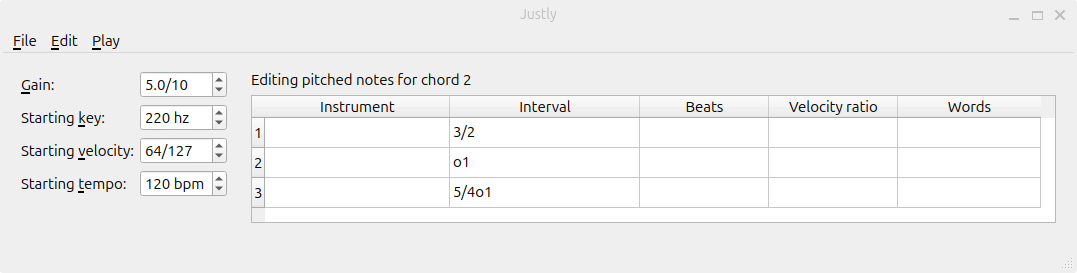
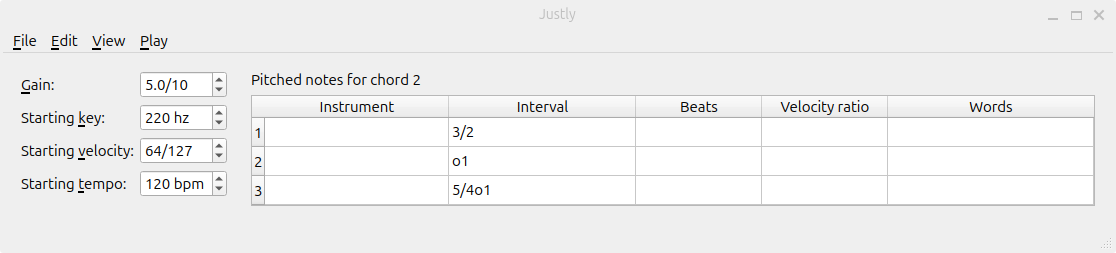
docs

diff --git a/src/justly.cpp b/src/justly.cpp
@@ -29,7 +29,6 @@
 #include <QtGui/QPixmap>
 #include <QtGui/QScreen>
 #include <QtGui/QUndoStack>
-#include <QtWidgets/QAbstractItemDelegate>
 #include <QtWidgets/QAbstractItemView>
 #include <QtWidgets/QApplication>
 #include <QtWidgets/QBoxLayout>
@@ -49,7 +48,6 @@
 #include <QtWidgets/QSizePolicy>
 #include <QtWidgets/QSpinBox>
 #include <QtWidgets/QStatusBar>
-#include <QtWidgets/QStyleOption>
 #include <QtWidgets/QTableView>
 #include <QtWidgets/QWidget>
 #include <algorithm>
@@ -155,14 +153,13 @@ template <typename Item>
 
 template <typename SubType>
 [[nodiscard]] static auto variant_to(const QVariant &variant) {
-  Q_ASSERT(variant.isValid());
-  Q_ASSERT(!variant.isNull());
   Q_ASSERT(variant.canConvert<SubType>());
   return variant.value<SubType>();
 }
 
 [[nodiscard]] static auto get_json_value(const nlohmann::json &json_data,
                                          const char *const field_name) {
+  Q_ASSERT(field_name != nullptr);
   Q_ASSERT(json_data.is_object());
   Q_ASSERT(json_data.contains(field_name));
   return json_data[field_name];
@@ -194,6 +191,7 @@ static void add_int_to_json(nlohmann::json &json_object,
 static void add_string_to_json(nlohmann::json &json_row,
                                const char *const field_name,
                                const QString &words) {
+  Q_ASSERT(words.isValidUtf16());
   Q_ASSERT(json_row.is_object());
   if (!words.isEmpty()) {
     json_row[field_name] = words.toStdString().c_str();
@@ -253,6 +251,7 @@ static void check_fluid_ok(const int fluid_result) {
 
 static void set_fluid_int(fluid_settings_t &settings, const char *const field,
                           const int value) {
+  Q_ASSERT(field != nullptr);
   check_fluid_ok(fluid_settings_setint(&settings, field, value));
 }
 
@@ -330,7 +329,8 @@ static void add_control(QFormLayout &controls_form, const QString &label,
                         QDoubleSpinBox &spin_box, const int minimum,
                         const int maximum, const QString &suffix,
                         const double single_step = 1, const int decimals = 0) {
-  Q_ASSERT(suffix != nullptr);
+  Q_ASSERT(suffix.isValidUtf16());
+  Q_ASSERT(label.isValidUtf16());
   spin_box.setMinimum(minimum);
   spin_box.setMaximum(maximum);
   spin_box.setSuffix(suffix);
@@ -339,8 +339,6 @@ static void add_control(QFormLayout &controls_form, const QString &label,
   controls_form.addRow(label, &spin_box);
 }
 
-// a subnamed should have the following methods:
-// static auto SubNamed::get_all_nameds() -> const QList<SubNamed>&;
 struct Named {
   QString name;
 
@@ -351,7 +349,7 @@ struct Named {
   if (named_pointer == nullptr) {
     return QString("");
   }
-  return named_pointer->name;
+  return get_reference(named_pointer).name;
 }
 
 template <typename SubNamed> // type properties
@@ -363,6 +361,7 @@ concept NamedInterface = std::derived_from<SubNamed, Named> &&
 
 template <NamedInterface SubNamed>
 [[nodiscard]] static auto get_by_name(const QString &name) -> const SubNamed & {
+  Q_ASSERT(name.isValidUtf16());
   const auto &all_nameds = SubNamed::get_all_nameds();
   const auto named_pointer =
       std::find_if(all_nameds.cbegin(), all_nameds.cend(),
@@ -374,9 +373,10 @@ template <NamedInterface SubNamed>
 static void add_named_to_json(nlohmann::json &json_row,
                               const char *const field_name,
                               const Named *named_pointer) {
+  Q_ASSERT(field_name != nullptr);
   Q_ASSERT(json_row.is_object());
   if (named_pointer != nullptr) {
-    json_row[field_name] = named_pointer->name.toStdString();
+    json_row[field_name] = get_reference(named_pointer).name.toStdString();
   }
 }
 
@@ -1085,6 +1085,9 @@ substitute_named_for(QWidget &parent, const SubNamed *sub_named_pointer,
                      const int note_number, const QString &missing_title,
                      const QString &missing_message,
                      const QString &default_message) -> const SubNamed & {
+  Q_ASSERT(missing_title.isValidUtf16());
+  Q_ASSERT(missing_message.isValidUtf16());
+  Q_ASSERT(default_message.isValidUtf16());
   if (sub_named_pointer == nullptr) {
     sub_named_pointer = current_sub_named_pointer;
   };
@@ -2188,6 +2191,7 @@ template <RowInterface SubRow> struct SetCells : public QUndoCommand {
 };
 
 [[nodiscard]] static auto get_mime_description(const QString &mime_type) {
+  Q_ASSERT(mime_type.isValidUtf16());
   if (mime_type == Chord::get_cells_mime()) {
     return RowsModel<Chord>::tr("chords cells");
   }
@@ -2913,6 +2917,7 @@ static void play_chords(SongWidget &song_widget, const int first_chord_number,
 }
 
 void export_to_file(SongWidget &song_widget, const QString &output_file) {
+  Q_ASSERT(output_file.isValidUtf16());
   auto &player = song_widget.player;
   const auto &song = song_widget.song;
 
@@ -3054,6 +3059,8 @@ static void add_delete_cells(SongWidget &song_widget) {
     SongWidget &song_widget, const char *const caption, const QString &filter,
     const QFileDialog::AcceptMode accept_mode, const QString &suffix,
     const QFileDialog::FileMode file_mode) -> QFileDialog & {
+  Q_ASSERT(filter.isValidUtf16());
+  Q_ASSERT(suffix.isValidUtf16());
   auto &dialog = // NOLINT(cppcoreguidelines-owning-memory)
       *(new QFileDialog(&song_widget, SongWidget::tr(caption),
                         song_widget.current_folder, filter));
@@ -3079,6 +3086,7 @@ static void add_delete_cells(SongWidget &song_widget) {
 }
 
 void save_as_file(SongWidget &song_widget, const QString &filename) {
+  Q_ASSERT(filename.isValidUtf16());
   const auto &song = song_widget.song;
   std::ofstream file_io(filename.toStdString().c_str());
 
@@ -3098,6 +3106,7 @@ void save_as_file(SongWidget &song_widget, const QString &filename) {
 }
 
 void open_file(SongWidget &song_widget, const QString &filename) {
+  Q_ASSERT(filename.isValidUtf16());
   auto &undo_stack = song_widget.undo_stack;
   auto &controls = song_widget.controls;
   auto &chords_model = song_widget.switch_column.chords_table.model;

diff --git a/tests/test.cpp b/tests/test.cpp
@@ -14,9 +14,11 @@
 #include <QtGui/QClipboard>
 #include <QtGui/QGuiApplication>
 #include <QtTest/QTest>
+#include <QtWidgets/QAbstractItemDelegate>
 #include <QtWidgets/QAbstractItemView>
 #include <QtWidgets/QApplication>
 #include <QtWidgets/QMessageBox>
+#include <QtWidgets/QStyleOption>
 #include <QtWidgets/QWidget>
 #include <string>
 #include <vector>

diff --git a/README.md b/README.md
@@ -166,12 +166,15 @@ In the "Edit" menu, you can choose among the following options:
   - "Into start" to insert a row into the start of the table.
 - "Delete cells" to delete cell contents.
 - "Remove rows" to remove selected rows.
+- "Rekey mode" to turn rekey mode on or off. When rekey mode is off, editing the interval of a chord only changes that cell. When rekey mode is on, when you edit the interval of a chord, for each chord before the next key change change, the interval of each pitched note will change such that its pitch remains the same. Moreover, the interval of the next key change will shift such that the new key remains the same.
 
 ### View Menu
 
 In the "View" menu, you can choose among the following options:
 
-- Check/uncheck "Controls" to view/hide the controls, respectively.
+- "Back to chords" to view the chords.
+- "Previous chord" to view the pitched or unpitched notes of the previous chord.
+- "Next chord" to view the pitched or unpitched notes of the next chord.
 
 ### Play Menu
 
